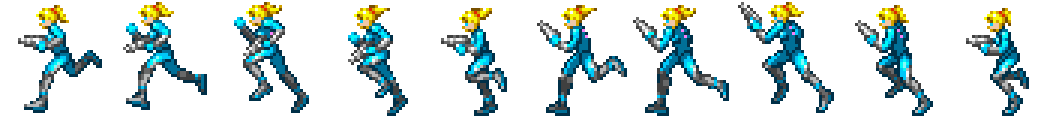
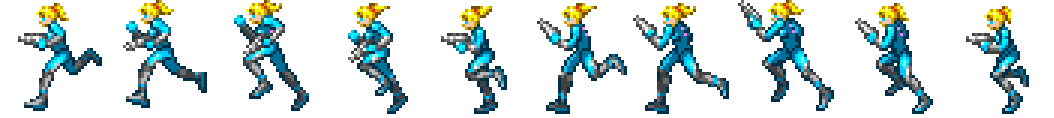
animation + calculation fixed

diff --git a/character/samus.py b/character/samus.py
@@ -59,6 +59,7 @@ class Samus(Character):
                                  9: (0, 0, self.width_move, self.height_move), }
         # Definimos el delay de la animacion
         self.updated = pygame.time.get_ticks()
+        self.anim_delay = 60
         # Variables de movimiento
         self.direction = 'right'
         self.dx = 0
@@ -97,8 +98,6 @@ class Samus(Character):
         if direction == 'right':
             self.direction = 'right'
             self.moving = True
-            self.sheet = load_image(config.zero_suit_move_right_sheet, True)
-            self.clip(self.right_move_states)
             if self.rect.right <= config.screen_width:
                 self.dx = self.speed[0]
             else:
@@ -106,8 +105,6 @@ class Samus(Character):
         elif direction == 'left':
             self.direction = 'left'
             self.moving = True
-            self.sheet = load_image(config.zero_suit_move_left_sheet, True)
-            self.clip(self.left_move_states)
             if self.rect.left >= 0:
                 self.dx = -self.speed[0]
             else:
@@ -122,10 +119,17 @@ class Samus(Character):
             self.sheet = load_image(config.zero_suit_stand_sheet, True)
             self.clip(self.stand_states[1])
             self.dx = 0
-        else:
-            raise Exception
+
         self.image = self.sheet.subsurface(self.sheet.get_clip())
 
+
+    def animation(self, direction):
+        if direction == 'right':
+            self.sheet = load_image(config.zero_suit_move_right_sheet, True)
+            self.clip(self.right_move_states)
+        elif direction == 'left':
+            self.sheet = load_image(config.zero_suit_move_left_sheet, True)
+            self.clip(self.left_move_states)
 
     def jump(self):
         if not self.jumping:
@@ -155,10 +159,15 @@ class Samus(Character):
             self.jumping = False
             self.dy = 0
 
-        if self.updated + config.fps <= pygame.time.get_ticks():
-            keys = pygame.key.get_pressed()
-            if keys[K_d]:
-                self.move('right')
-            elif keys[K_a]:
-                self.move('left')
-            self.updated = pygame.time.get_ticks()
+
+        keys = pygame.key.get_pressed()
+        if keys[K_d]:
+            self.move('right')
+            if self.updated + self.anim_delay <= pygame.time.get_ticks():
+                self.animation('right')
+                self.updated = pygame.time.get_ticks()
+        elif keys[K_a]:
+            self.move('left')
+            if self.updated + self.anim_delay <= pygame.time.get_ticks():
+                self.animation('left')
+                self.updated = pygame.time.get_ticks()

diff --git a/scene/scene_game.py b/scene/scene_game.py
@@ -80,7 +80,11 @@ class SceneGame(Scene):
 
     def on_draw(self, screen):
         screen.fill(config.black)
+        # r = pygame.Surface((self.samus.rect.width, self.samus.rect.height))
+        # r.fill((255, 255, 255))
+        # screen.blit(r, self.samus.rect)
         self.sprites.draw(screen)
+
         self.draw_controls(screen)
 
 
